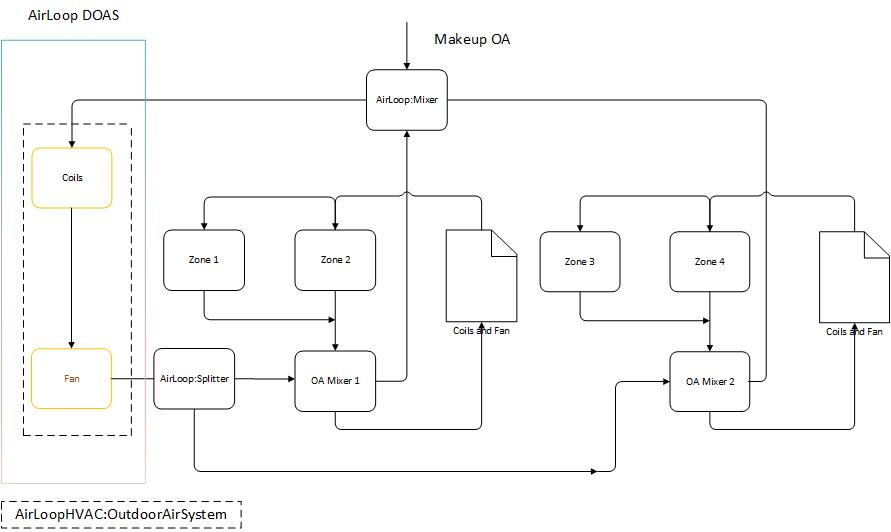
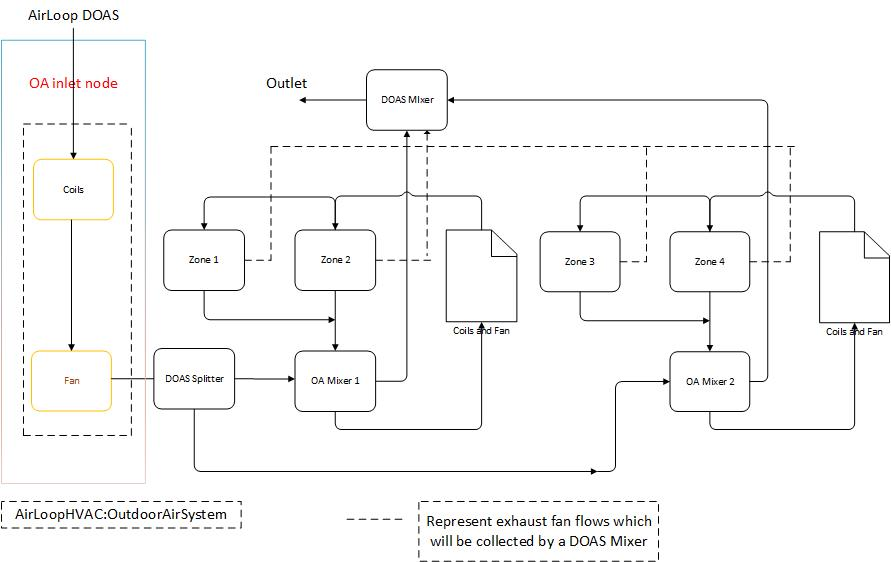
Revise NFP and Design Document based on a conference call

diff --git a/design/FY2019/NFP-DOAS_MultiAHUs.md b/design/FY2019/NFP-DOAS_MultiAHUs.md
@@ -3,6 +3,10 @@
 ## Lixing Gu
 ## Floirda Solar Energy Center
 
+### Third revision 4/10/19
+
+Revise NFP and Design Document based on discussion in a conference call on 4/10/19  
+
 ### Second revision 4/5/19
 
 Revise NFP based on communications from Edwin and Tianzhen and Add Design Document  
@@ -188,7 +192,7 @@ Enclosed is figure from Brent to clarify two point for his comments: add additio
 
 The conference call was held in a regular sizing meeting.
 
-Attendees: Brent Griffith; Michael J Witte; Richard Raustad; Lixing Gu; Lawrence Scheier
+Attendees: Brent Griffith; Michael J Witte; Richard Raustad; Lixing Gu; Lawrence Scheier; Kristin Filed-Macumber
 
 The conference call discussed the NFP by continuing E-mail communications between Brent and Gu. Here is a consensus:
 
@@ -372,6 +376,31 @@ Thanks.
 
 Gu
 
+####A conference call on 4/10/19
+
+Attendees: Brent Griffith; Michael J Witte; Richard Raustad; Lixing Gu; Lawrence Scheier; Edwin Lee; Kristin Filed-Macumber; Jim Spielbauer; Napappan Chidambaram; Jason DeGraw
+
+The second revision of NFP and Design Document were discussed in a regular sizing meeting on 4/10/19. Here are issues discussed and addressed.
+
+#####Extensible fields
+
+The current structure does not allow users to change IDD directly. However, it is possible to make fields extensible. The fixed number will be used first. I will get help to implement extensible fields later.
+
+#####Sizing 
+
+A new sizing function will be created to handle all sizing requirements.
+
+#####Airflow mismatch between supply fan listed in AIrLoopDOAS and OA required flow rate from all OA mixers 
+
+If a supply fan flow rate defined in the AirLoopHVAC:DedicatedOutdoorAirSystem object is below (or not equal to) the OA flow rate requested from a sum of OA mixers, a possible mismatch occurs. Two possible actions may be taken: 1) Stop simulation with a fatal error; and 2) Increase the fan flow rate to match OA requirements and provide a warning message, so that simulation can continue. 
+
+#####Remove an argument in SimAirLoopHAVCDOAS
+
+An argument of AirLoopHAVCDOASNum will be removed, in order to make function arguments consistent with other modules.
+
+#####AirLoopHVAC:Mixer Configuration
+
+AirLoopHVAC:Mixer will collect not only all air flows of OA Mixer relief nodes from served AirLoops, but also air flows of all zone exhaust fans served by each AirLoop defined in the AirLoopHVAC:DedicatedOutdoorAirSystem object. The outlet node will not be connected to the inlet node in the AirLoopHVAC:DedicatedOutdoorAirSystem object. Instead, the outlet node is either connected to outdoor air to relief or connected to a heat exchanger listed in the AirLoopHVAC:OutdoorAirSystem object as a component to pre-treat outdoor air. 
   
 ### **Overview**
 
@@ -381,7 +410,7 @@ We propose 3 new objects to accomplish the goal.
 
 The proposed new objects are AirLoopHVAC:DedicatedOutdoorAirSystem, AirLoopHVAC:Mixer, and AirLoopHVAC:Splitter.
 
-AirLoopHVAC:DedicatedOutdoorAirSystem
+#####AirLoopHVAC:DedicatedOutdoorAirSystem
 
 The first new object is AirLoopHVAC:DedicatedOutdoorAirSystem. It will take a sum of outdoor air from multiple AirLoopHAVC outdoor units as mass flow rate, pre-treat it through cooling and heating coils, and deliver pre-treated air to outdoor air inlets of each OutdoorAir:Mixer, served by the object. The object has following components:
 
@@ -397,13 +426,11 @@ The first new object is AirLoopHVAC:DedicatedOutdoorAirSystem. It will take a su
 
 The structure of the new object does not require inputs of nodes, because the object inlet and outlet nodes can be found at an associated AirLoopHVAC:OutdoorAirSystem:EquipmentList. The object has input configuration to map served AirLoops.  
 
-AirLoopHVAC:Mixer
+#####AirLoopHVAC:Mixer
 
-The object has a single outlet node and multiple inlet nodes. The outlet node is the inlet node of the first component of the AirLoopHVAC:DedicatedOutdoorAirSystem object. The multiple inlet nodes are the relief nodes from Multiple AirLoopHAVC OutdoorAir:Mixer. One more outdoor inlet node will be added to provide makeup outdoor airflow rate to ensure the total mass flow rate is equal to sum of all outdoor air inlet nodes of served OutdoorAir:Mixer, if a sum of all relief nodes of served OutdoorAir:Mixer is less.
+The object has a single outlet node and multiple inlet nodes. The outlet node is a stand-alone node and will not be connected to the inlet node in the AirLoopHVAC:DedicatedOutdoorAirSystem object. Instead, the outlet node is either connected to outdoor air to relief or connected to a heat exchanger listed in the AirLoopHVAC:OutdoorAirSystem object. The multiple inlet nodes are the relief nodes from Multiple AirLoopHAVC OutdoorAir:Mixer. In addition, the Mixer will collect exhaust airflows in all zoned served by AirLoops defined in the AirLoopHVAC:DedicatedOutdoorAirSystem object internally. The air properties at the outlet node will be calculated based on air properties of all inlet nodes weighted by incoming flow rates.  
 
-**The mass flow rate at the outlet will be a sum of all inlet nodes mass flow rates, while outdoor air properties will be assigned to the outlet node air.** 
-
-AirLoopHVAC:Splitter
+#####AirLoopHVAC:Splitter
 
 The object has a single inlet node and multiple outlet nodes. The inlet node is the outlet node of the last component of the AirLoopHVAC:DedicatedOutdoorAirSystem object. The multiple outlet nodes are the OA inlet nodes from Multiple AirLoopHAVC OutdoorAir:Mixer.
 
@@ -415,10 +442,11 @@ Here is a possible calculation procedure:
 2. Assign a sum of OA mass flow rate into AirLoopHVAC:DedicatedOutdoorAirSystem as the object mass flow rate
 3. Calculate outlet node conditions based on setpoint manager assigned to each individual coil required in the AirLoopHVAC:OutdoorAirSystem object to pre-treat outdoor air. 
 4. Assign outlet node conditions into OA inlet conditions of each AirLoop OutdoorAir:Mixer via AirLoopHVAC:Splitter
+5. Loop AirLoopHVAC again using air properties at each OA inlet node from Step 4
+6. Check air property differences at the outlet node from AirLoopHVAC:DedicatedOutdoorAirSystem and OA inlet nodes of all AirLoop OutdoorAir:Mixer.
+7. If converged, continue. Otherwise, go to Step 3.  
 
-Note:
-
-Since the AirLoopHVAC:OutdoorAirSystem object is listed as a component of AirLoopHVAC:DedicatedOutdoorAirSystem, the object will allow an economizer to setup the mass flow rate, then distribute airflow to served OutdoorAir:Mixers, in addition to a sum of OA systems of multiple AirLoopHVAC. Due to the limited time and budget, this feature is not implemented and will be developed later. 
+Note: Since the AirLoopHVAC:OutdoorAirSystem object is listed as a component of AirLoopHVAC:DedicatedOutdoorAirSystem, the object will allow an economizer to setup the mass flow rate, then distribute airflow into served OutdoorAir:Mixers, in addition to a sum of OA systems of multiple AirLoopHVAC. Due to the limited time and budget, this feature is not implemented and will be developed later. 
 
 ![Figure 1](AirLoopDOAS1.jpg) 
 
@@ -468,7 +496,7 @@ The MixedAir module will be modified to allow OutdoorAir:Mixer OA inlet nodes to
 
 ####Calling
 
-SimAirLoopDOAS will be looped at the end of SolveAirLoopControllers (preferred) or SimAirLoops in the SimAirServingZones module. A additional convergence check will be performed to ensure each OAcontroller gets proper OA flow rates and inlet conditions after calling SimAirLoopDOAS. Hope no iteration is needed.   
+SimAirLoopDOAS will be looped at the end of SolveAirLoopControllers (preferred) or SimAirLoops in the SimAirServingZones module. A additional convergence check will be performed to ensure each OAcontroller gets proper OA flow rates and inlet conditions after calling SimAirLoopDOAS. Then, I will test if iteration is needed or not.
 
 ## Testing/Validation/Data Sources ##
 
@@ -535,7 +563,7 @@ AirLoopHVAC:DedicatedOutdoorAirSystem
        \type AirLoopHVAC name
     ......
 
-Note: If extensible is not available, the fixed number of 50 will be used to define the maximum number of AirLoopHVACs served by the proposed object.
+Note: If extensible is not available, the fixed number of 20 will be used to define the maximum number of AirLoopHVACs served by the proposed object.
 
 AirLoopHVAC:Mixer
 
@@ -551,35 +579,30 @@ AirLoopHVAC:Mixer
    	A2, \field Outlet Node Name
        \required-field
        \type node
-   	A3, \field Outdoor Air Node Name
-       \required-field
-       \type node
-       \note The node is used to provide makeup outdoor airflow rate to ensure the loop defined
-       \note by AirLoopHVAC:DedicatedOutdoorAirSystem has mass balance.
-  	A4, \field Inlet 1 Node Name
+  	A3, \field Inlet 1 Node Name
        \begin-extensible
        \required-field
        \type node
-   	A5, \field Inlet 2 Node Name
+   	A4, \field Inlet 2 Node Name
        \type node
-   	A6, \field Inlet 3 Node Name
+   	A5, \field Inlet 3 Node Name
        \type node
-   	A7, \field Inlet 4 Node Name
+   	A6, \field Inlet 4 Node Name
        \type node
-   	A8, \field Inlet 5 Node Name
+   	A7, \field Inlet 5 Node Name
        \type node
-   	A9, \field Inlet 6 Node Name
+   	A8, \field Inlet 6 Node Name
        \type node
-   	A10, \field Inlet 7 Node Name
+   	A9, \field Inlet 7 Node Name
        \type node
-   	A11, \field Inlet 8 Node Name
+   	A10, \field Inlet 8 Node Name
         \type node
-   	A12, \field Inlet 9 Node Name
+   	A11, \field Inlet 9 Node Name
         \type node
-   	A13; \field Inlet 10 Node Name
+   	A12; \field Inlet 10 Node Name
         \type node
 
-Note: If extensible is not available, the fixed number of 200 will be used to define the maximum number of inlet nodes.
+Note: If extensible is not available, the fixed number of 50 will be used to define the maximum number of inlet nodes.
 
 AirLoopHVAC:Splitter
 
@@ -705,22 +728,21 @@ A driver for this module with external connection. It contains following common 
     void SimAirLoopHVACDOAS
 			(std::string const &CompName,   // Name of the unitary engine driven heat pump system
                        bool const FirstHVACIteration, // TRUE if 1st HVAC simulation of system time step
-                       int const AirLoopDOASNum,          // air loop index
                        int &CompIndex                 // Index to AirLoopHAVCDOAS
     )
 
 
-#####GetInput
+#####GetAirLoopDOASInput
 
 Read an input file and assign inputs of 3 new proposed objects to variables and structs.
 
-        static void getInput();
+        static void getAirLoopDOASInput();
 
-#####Init
+#####InitAirLoopDOAS
 
-Initialize values without changes at the current iteration before calculation. At the same time, this function will process some data only once, when some information is not available during input process by calling GetInput. For example, Sizing calculation will be embedded in this function after calling OAControllerProps::SizeOAController to get required outdoor ventilation flow rate.    
+Initialize values without changes at each time step before calculation. At the same time, this function will process some data only once, when some information is not available during input process by calling GetAirLoopDOASInput.   
 
-        static void init();
+        static void initAirLoopDOAS();
 
 #####CalcAirLoopDOAS
 
@@ -730,6 +752,7 @@ Calculate outputs by calling SimOAComponent function in the MixedAir module.
          int const     AirLoopDOASNum,       // 
          bool const FirstHVACIteration, 
     );
+
 
 #####UpdateAirLoopDOAS
 
@@ -743,13 +766,23 @@ Calculate outputs by calling SimOAComponent function in the MixedAir module.
          int const     AirLoopDOASNum,       // 
      );
 
-
-   
 #####Sizing
 
 Calculate sizes based on outdoor air conditions and setpoint manager using existing equipment listed in validOASysEquipmentNames.
 
-The sizing calculation will be based on ventilation requirements. The outdoor air flow rates will be available after calling OAControllerProps::SizeOAController. A possible way is to collect outdoor air flow rate after calling, so that sizing of each coil can be accomplished.  
+The outdoor air flow rates are available after calling OAControllerProps::SizeOAController. A possible way is to collect outdoor air flow rate after calling SizeOAController, so that sizing of each coil can be accomplished. The coil sizing calculation will be based on ventilation requirements, while fan sizing may be based on the maximum value of both economizer operation and ventilation requirements. The detailed logic will be determined during implementation.  
+
+    static void SizingAirLoopDOAS(
+         int const     AirLoopDOASNum,       // 
+     );
+
+#####Other possible functions will be determined during implementation
+
+        static void initAirLoopMixers();
+        static void initAirLoopSplitters();
+        static void CalcAirLoopMixers();
+        static void CalcAirLoopSplitters();
+
 
 ###SimAirServingZones
 
@@ -783,6 +816,7 @@ Air properties of OA mixer inlet nodes are determined by System Nodes from a sec
 
 If OA inlet node values are assigned by the AirLoopDOAS loop correctly, it may not need to revise MixedAir module. The modification will be determined during implementation. 
 
+The AirLoopHVAC:OutdoorAirSystem object requires the OutdoorAir:Mixer object as the last OA component. Since the proposed feature will not need the OutdoorAir:Mixer, the restriction will be removed. In other words, the AirLoopHVAC:OutdoorAirSystem object will work without OutdoorAir:Mixer under this new feature only. 
 
 # **Reference: DesDoc_OASysToMultAirHandlers2.md**
 
